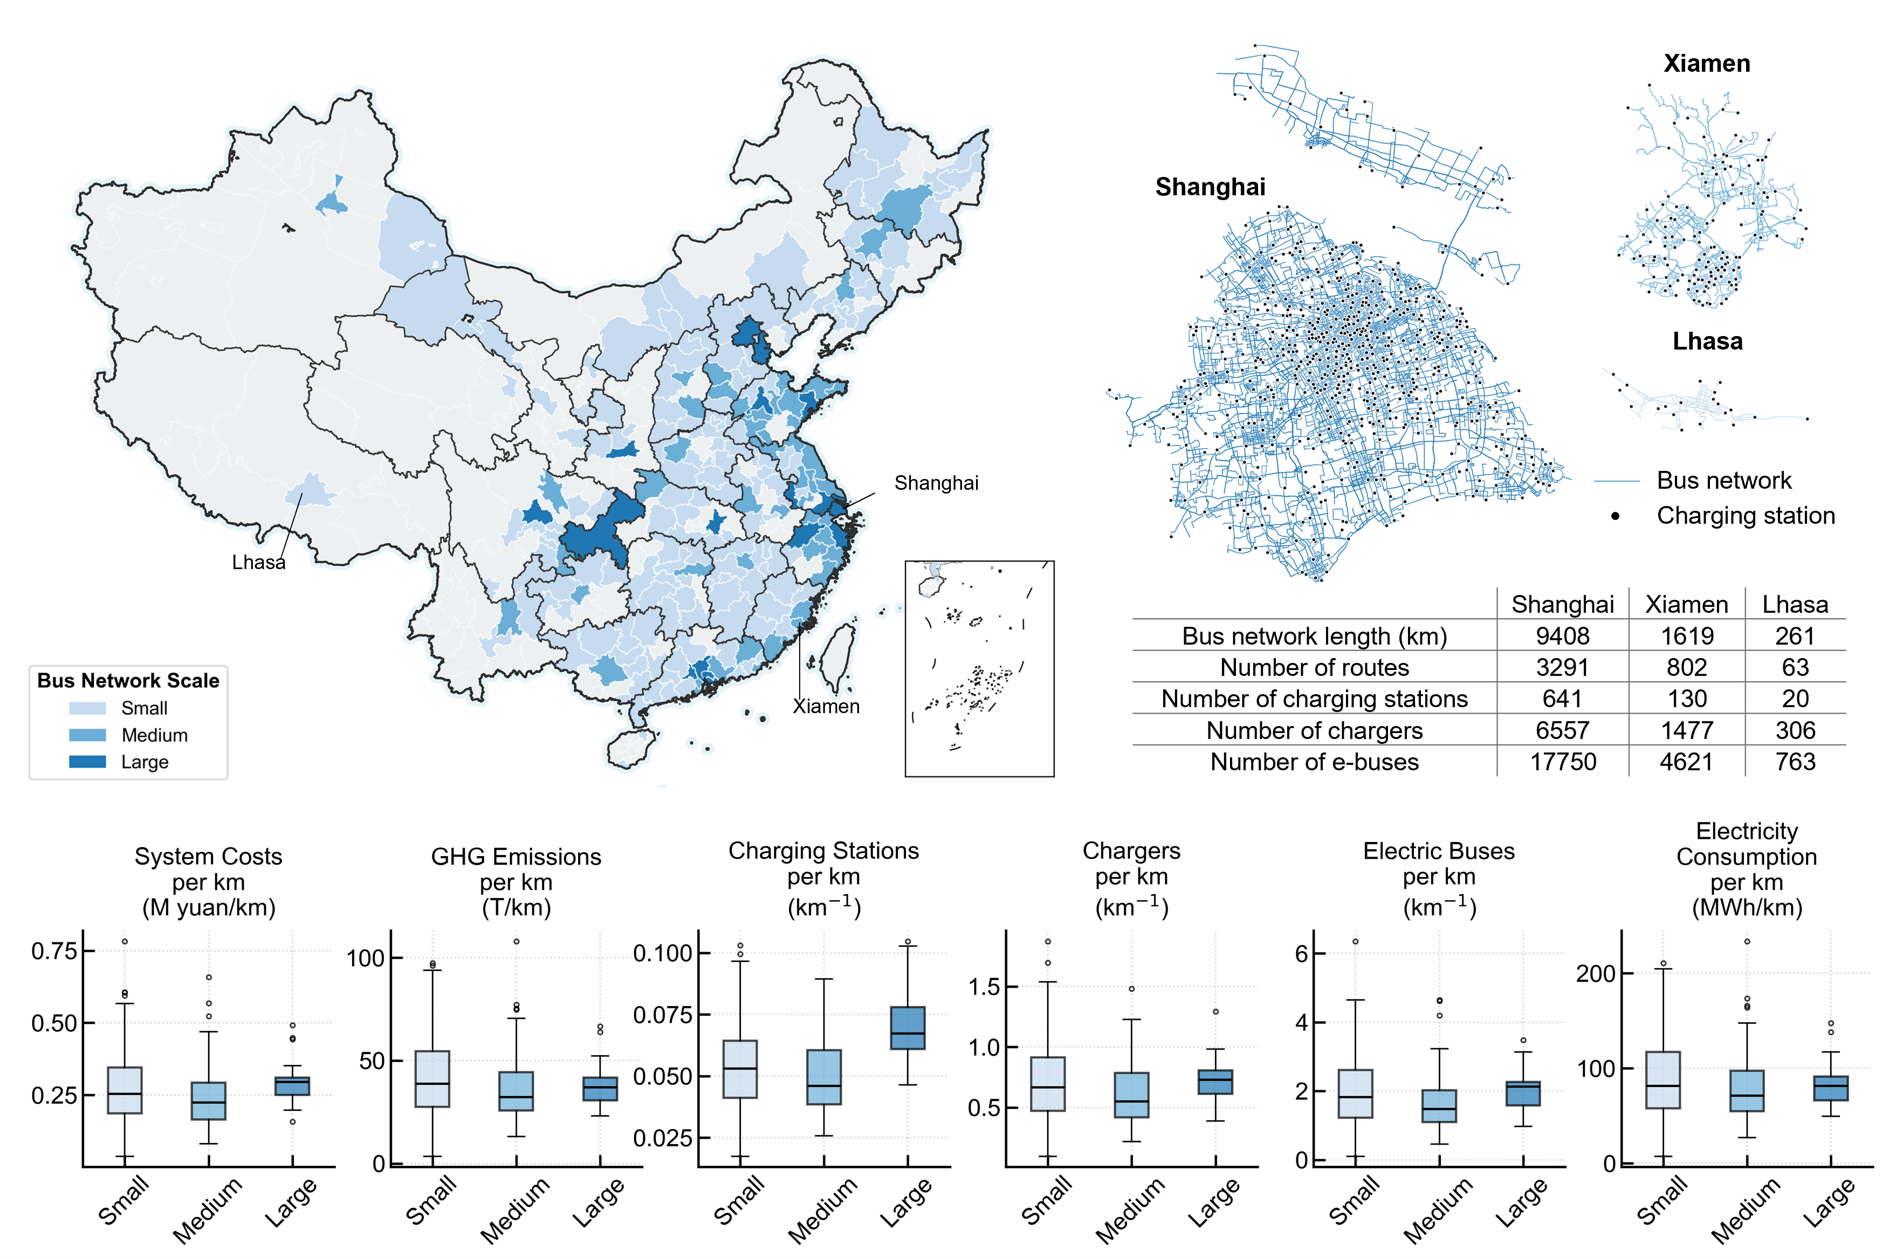
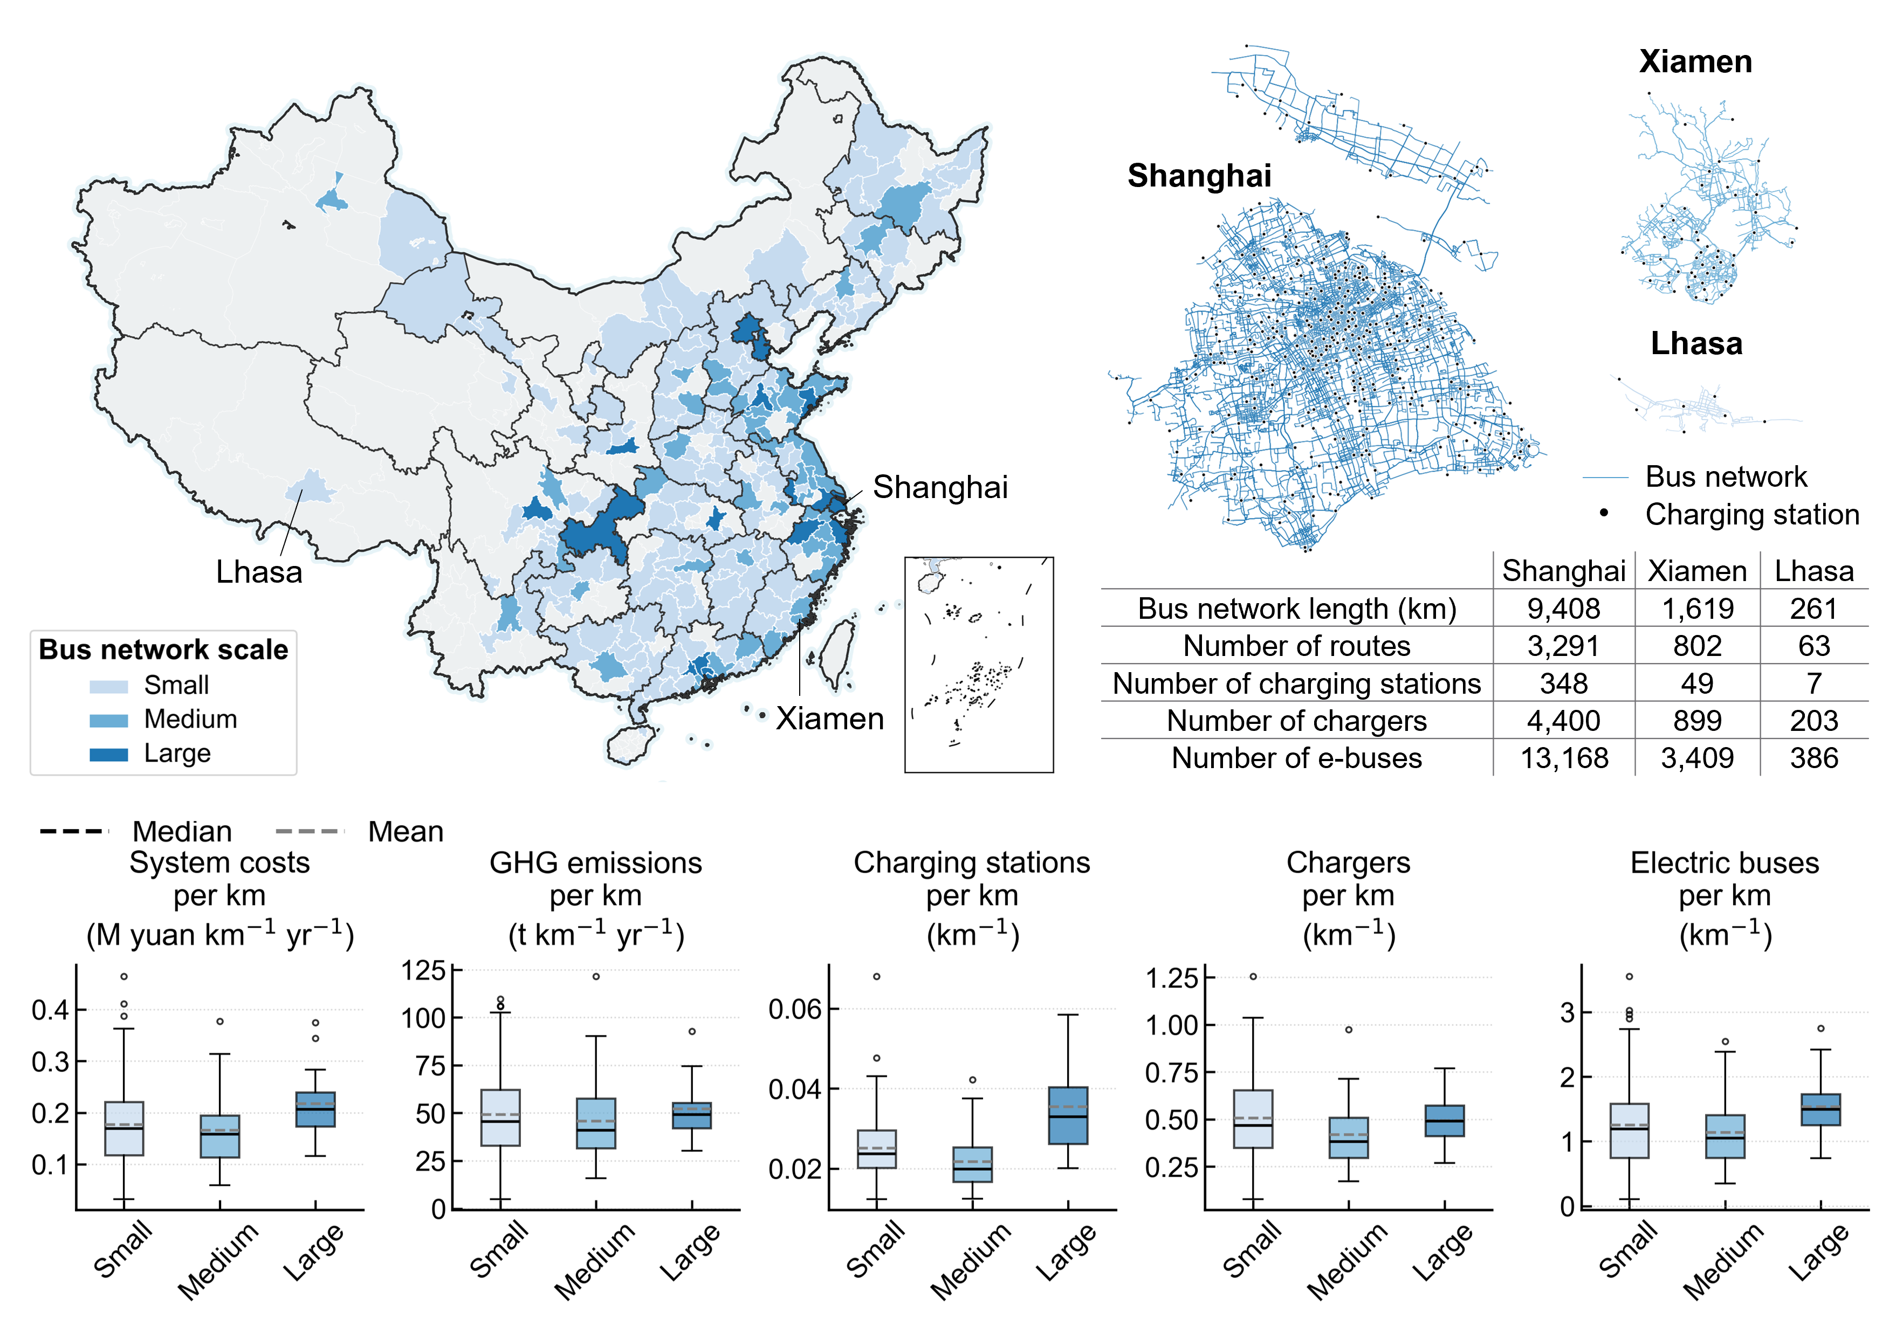
Add New: new paper

diff --git a/src/components/project/index.vue b/src/components/project/index.vue
@@ -54,7 +54,7 @@ const imageProjects = [
      code: ""
    },
    {
-     title: "How does bus network structure shape system costs and emissions of fleet electrification? Evidence from 224 Chinese cities",
+     title: "Network structure shapes system costs and emissions of bus electrification",
      image: image3,
      link: "https://globalevdata.github.io/ChinaEBus/",
      paper: "",

diff --git a/News/2026-10-13.md b/News/2026-10-13.md
@@ -1,0 +1,26 @@
+---
+title: 'Stakeholder attention to advanced air mobility reveals worldwide disparities'
+date: 2026-10-13
+type: Paper
+---
+# Stakeholder attention to advanced air mobility reveals worldwide disparities
+
+> Posted on 13 October 2026 by Ding Chen
+
+Our study examines how academia, governments, businesses, and the general public discuss advanced air mobility (AAM) worldwide. Using approximately 300,000 bibliometric and social-media texts published between 2015 and 2024, we identify temporal, spatial, and thematic differences in stakeholder attention, sentiment, and priorities. The findings reveal substantial disparities in AAM discourse across regions and stakeholder groups, with implications for policy, infrastructure planning, commercial development, and public acceptance.
+
+- First, AAM-related attention has increased across all stakeholder groups, particularly among governments, businesses, and the general public. The United States, China, United Kingdom and Germany account for much of the observed academic and online discussion.
+- Second, governments and businesses place greater emphasis on AAM infrastructure and integration, including vertiports, airspace management, and operational readiness.
+- Third, academia mainly focuses on aerodynamics and safety, while comparatively less attention is directed towards user experience, affordability, and policy questions.
+- Fourth, the general public places greater emphasis on end-user experience, safety, and pricing. Concerns regarding affordability and high costs are especially prominent within negative public discussions.
+- Fifth, AAM discussion is most concentrated in economically strong regions with established aviation systems, indicating that aviation capacity, economic resources, and transport demand are closely associated with global AAM attention.
+
+This study provides new evidence on the coordination gaps between technical, institutional, commercial, and public priorities. It offers policy-relevant guidance for more coordinated AAM regulation, infrastructure investment, public engagement, and integration with existing urban and regional transport systems.
+
+![Research framewor](./imgs/2026-10-13-1.png)
+
+> *Research framewor*
+
+![Topic analysis of the AAM-related discussions. a, Temporal distribution of AAM-related topics across four stakeholders. b, Sentiment for topics across the government, business, and general public. c, Spatial distribution of CVs of AAM-related topics. d, The distribution of AAM-related topics across the ten countries with the highest volume of social media texts is illustrated in the radar chart.](./imgs/2026-10-13-2.png)
+
+> *Topic analysis of the AAM-related discussions. a, Temporal distribution of AAM-related topics across four stakeholders. b, Sentiment for topics across the government, business, and general public. c, Spatial distribution of CVs of AAM-related topics. d, The distribution of AAM-related topics across the ten countries with the highest volume of social media texts is illustrated in the radar chart.*

diff --git a/publications.md b/publications.md
@@ -5,8 +5,9 @@ type: publications
 ---
 # Publications
 
-1.	Xiong Yang, Zhenhan Peng, Chengxiang Zhuge*, Justin Hayse Chiwing G. Tang, Ruichen Ma, Binru Wei, and Wenzhong Shi*. A spatial planning perspective on the global deployment of public electric vehicle charging stations. Cell Reports Sustainability, 2026, 100786, https://doi.org/10.1016/j.crsus.2026.100786.
-2. Justin Hayse Chiwing G. Tang, Yuan Li, Enyuan Cao, Xiong Yang, Ding Chen, Ruichen Ma, Zhenhan Peng, Binru Wei, Chengxiang Zhuge$^{*}$. Stakeholder attention to advanced air mobility reveals worldwide disparities. Under review.
+1. Xiong Yang, Zhenhan Peng, Chengxiang Zhuge*, Justin Hayse Chiwing G. Tang, Ruichen Ma, Binru Wei, and Wenzhong Shi*. A spatial planning perspective on the global deployment of public electric vehicle charging stations. Cell Reports Sustainability, 2026, 100786, https://doi.org/10.1016/j.crsus.2026.100786.
+2. Justin Hayse Chiwing G. Tang, Yuan Li, Enyuan Cao, Xiong Yang, Ding Chen, Ruichen Ma, Zhenhan Peng, Binru Wei, Chengxiang Zhuge,
+Stakeholder attention to advanced air mobility reveals worldwide disparities,Transport Policy,2026,104488, https://doi.org/10.1016/j.tranpol.2026.104488.
 3. Ding Chen, Justin Hayse Chiwing G. Tang, Xiong Yang, Ruichen Ma, Enyuan Cao, Zhenhan Peng, Yuan Li, Binru Wei, Chengxiang Zhuge$^{*}$. Mapping globally public charging service satisfaction trajectories of electric vehicle users. Under Review.
 4. Dingkang Teng, Justin Hayse Chiwing G. Tang, Ruichen Ma, Xiong Yang, Chengxiang Zhuge, A global insight into integration of metro and electric vehicle charging stations, Sustainable Cities and Society, 2026, 107217, https://doi.org/10.1016/j.scs.2026.107217.
 5. Ruichen Ma, Mingming Guan, Dingkang Teng, Xiong Yang, Chengxiang Zhuge*, Dynamic social disparities in the U.S. electric vehicle charging infrastructure system, Transportation Research Part D: Transport and Environment, 2026, 105307, https://doi.org/10.1016/j.trd.2026.105307.

diff --git a/team.md b/team.md
@@ -23,6 +23,21 @@ const ExternalCollaborators = [
     title: 'Assistant Professor at Zhejiang University',
   },
   {
+    avatar: 'Xingjun HUANG.png',
+    name: 'Xingjun HUANG',
+    title: 'Lecturer at School of Modern Posts, Chongqing University of Posts and Telecommunications, China',
+  },
+  {
+    avatar: '8.png',
+    name: 'Fan ZHANG',
+    title: 'Postdoc Fellow at HK PolyU',
+  },
+  {
+    avatar: '4.png',
+    name: 'Justin Hayse Chiwing G. TANG',
+    title: 'PhD student at TU Dortmund University, Germany',
+  },
+  {
     avatar: '7.png',
     name: 'Zhenhan PENG',
     title: 'PhD Student at KU Leuven, Belgium',
@@ -33,14 +48,9 @@ const ExternalCollaborators = [
     title: 'PhD student at Vrije Universiteit Brussel, Belgium',
   },
   {
-    avatar: 'Xingjun HUANG.png',
-    name: 'Xingjun HUANG',
-    title: 'Lecturer at School of Modern Posts, Chongqing University of Posts and Telecommunications, China',
-  },
-  {
-    avatar: '8.png',
-    name: 'Fan ZHANG',
-    title: 'Postdoc Fellow at HK PolyU',
+    avatar: '9.png',
+    name: 'Dingkang TENG',
+    title: 'PhD student at University of Tennessee, Knoxville, USA',
   },
 ]
 
@@ -57,11 +67,7 @@ const Reachers = [
     name: 'Xiong YANG',
     title: 'Leading Researcher & Postdoc Fellow',
   },
-  {
-    avatar: '4.png',
-    name: 'Justin Hayse Chiwing G. TANG',
-    title: 'Leading Researcher & PhD Student',
-  },
+  
   {
     avatar: 'Shiqi WANG.png',
     name: 'Shiqi WANG',
@@ -83,9 +89,9 @@ const Reachers = [
     title: 'Data Analyst & PhD Student',
   },
   {
-    avatar: '9.png',
-    name: 'Dingkang TENG',
-    title: 'Data Analyst & Master Student',
+    avatar: 'QiChongKai.png',
+    name: 'ChongKai Qi',
+    title: 'Data Analyst & PhD Student',
   },
   {
     avatar: '12.png',

diff --git a/News/index.md b/News/index.md
@@ -1,5 +1,9 @@
 # News
 
+## [Paper] [Stakeholder attention to advanced air mobility reveals worldwide disparities](./2026-10-13)
+
+We are delighted to announce that our research paper titled “Stakeholder attention to advanced air mobility reveals worldwide disparities” has been published in Transport Policy...
+
 ## [Paper] [A Comparative Study of Global EV Charging Station Deployment Patterns Published in Cell Reports Sustainability](./2026-7-26)
 
 We are delighted to announce that our research paper titled “A Spatial Planning Perspective on the Global Deployment of Public Electric Vehicle Charging Stations” has been published in Cell Reports Sustainability...
